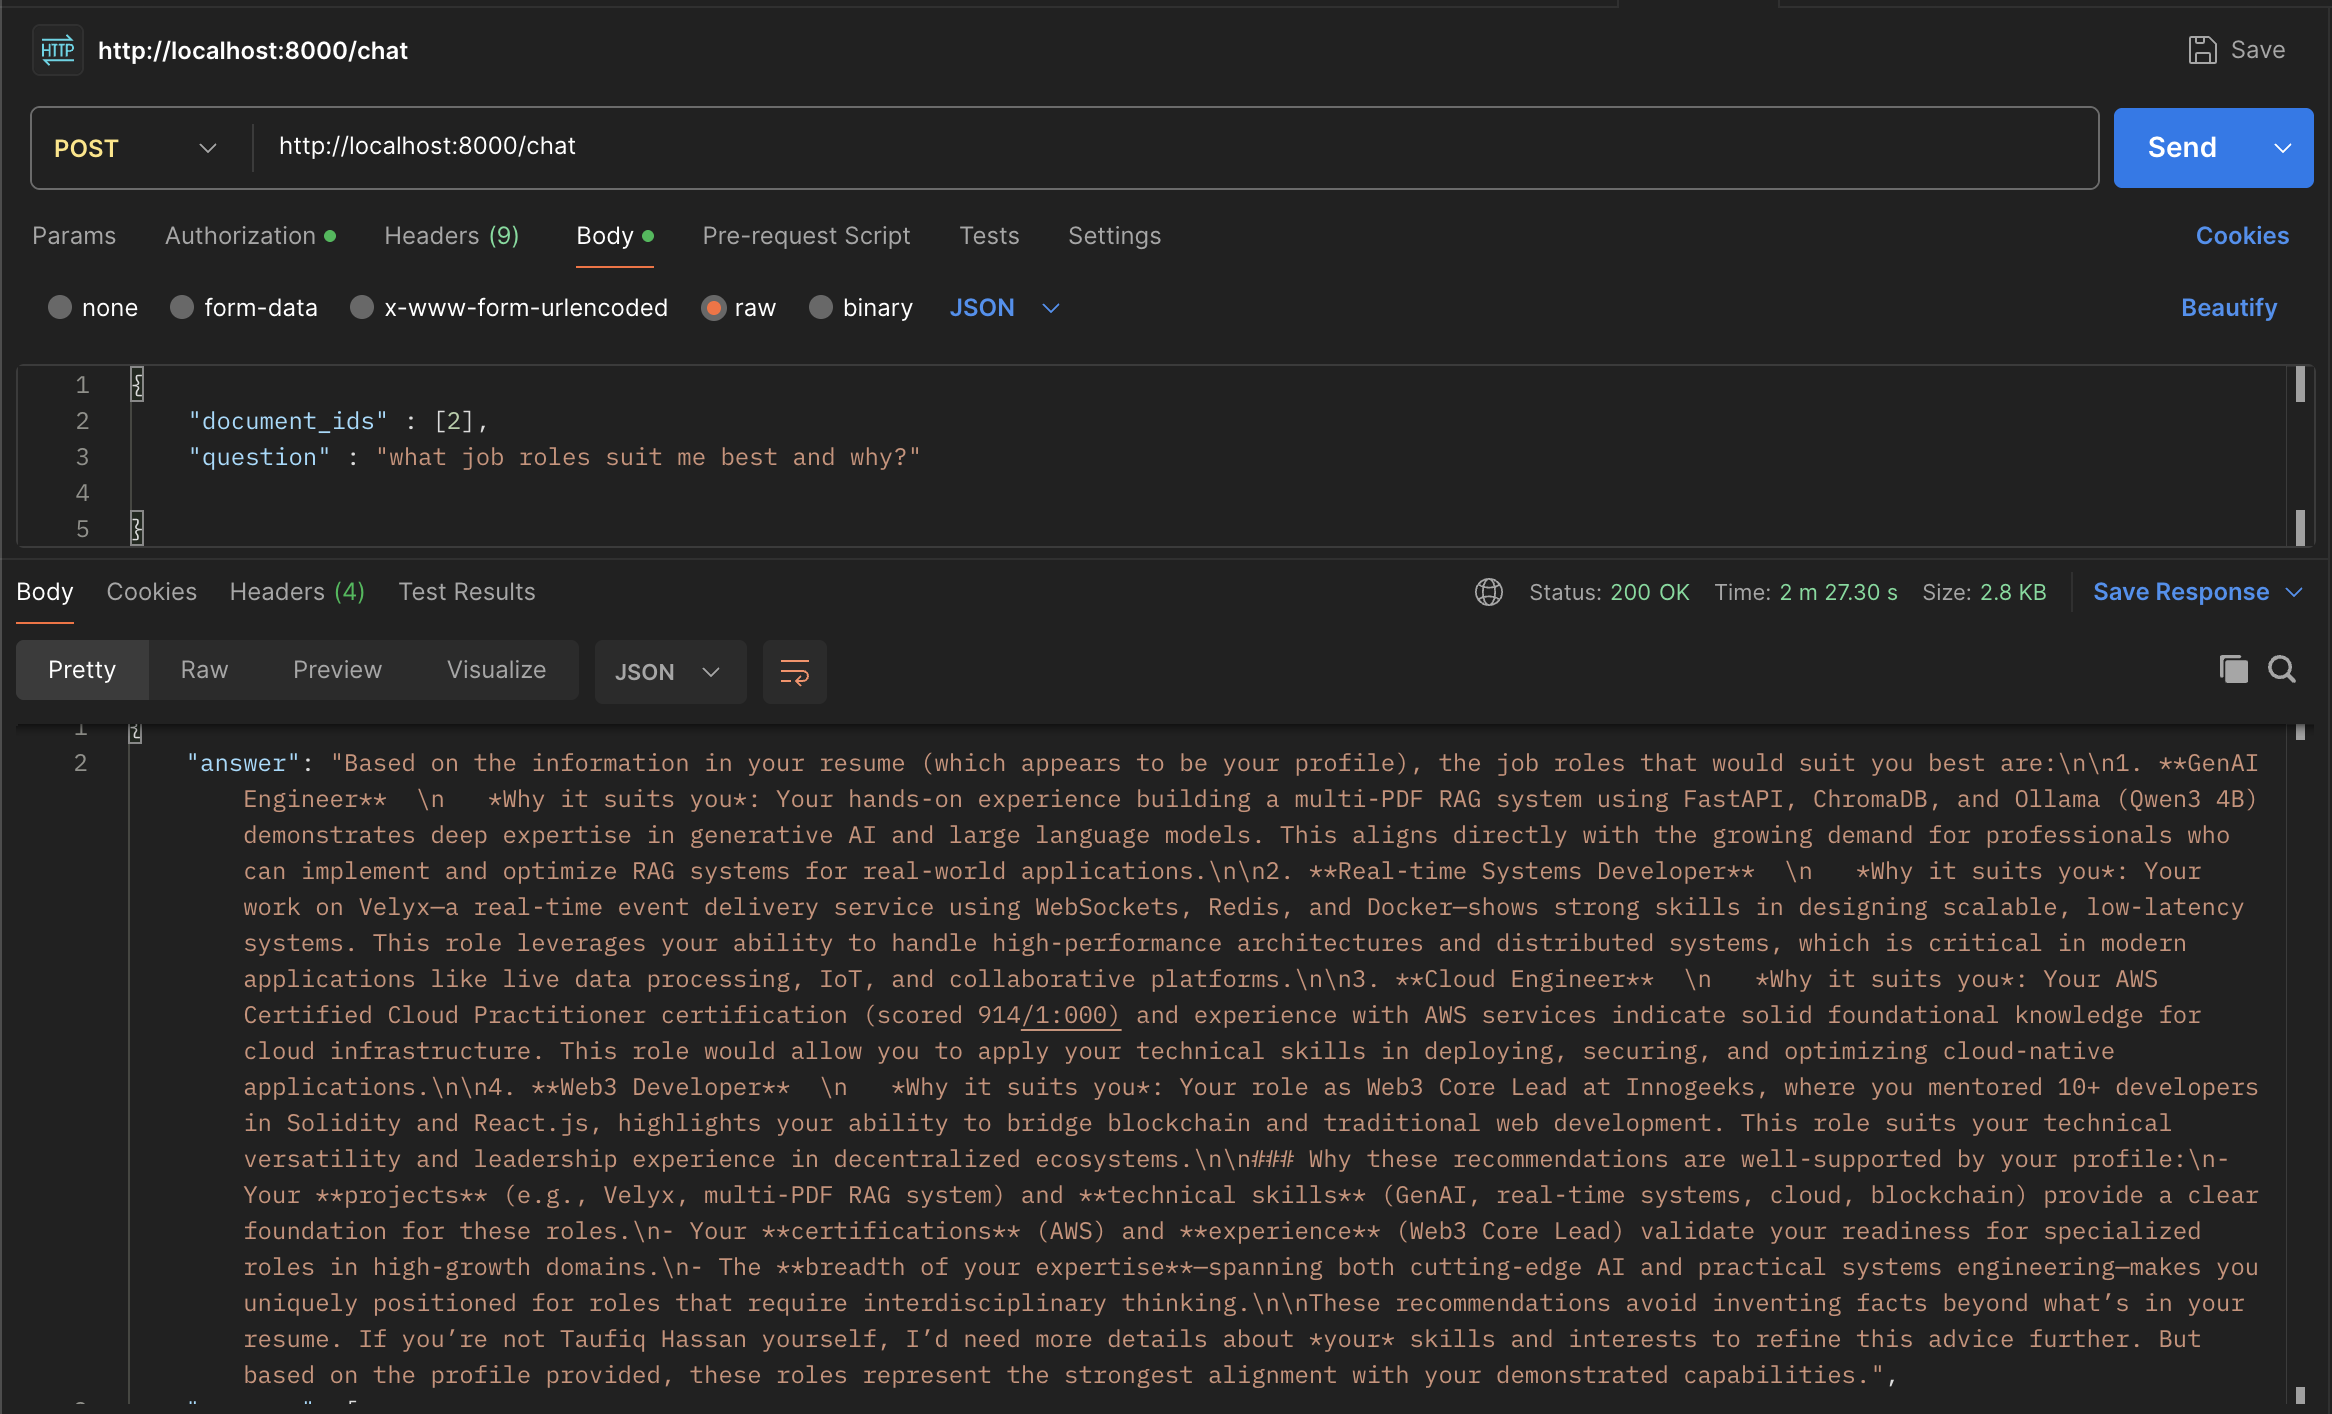
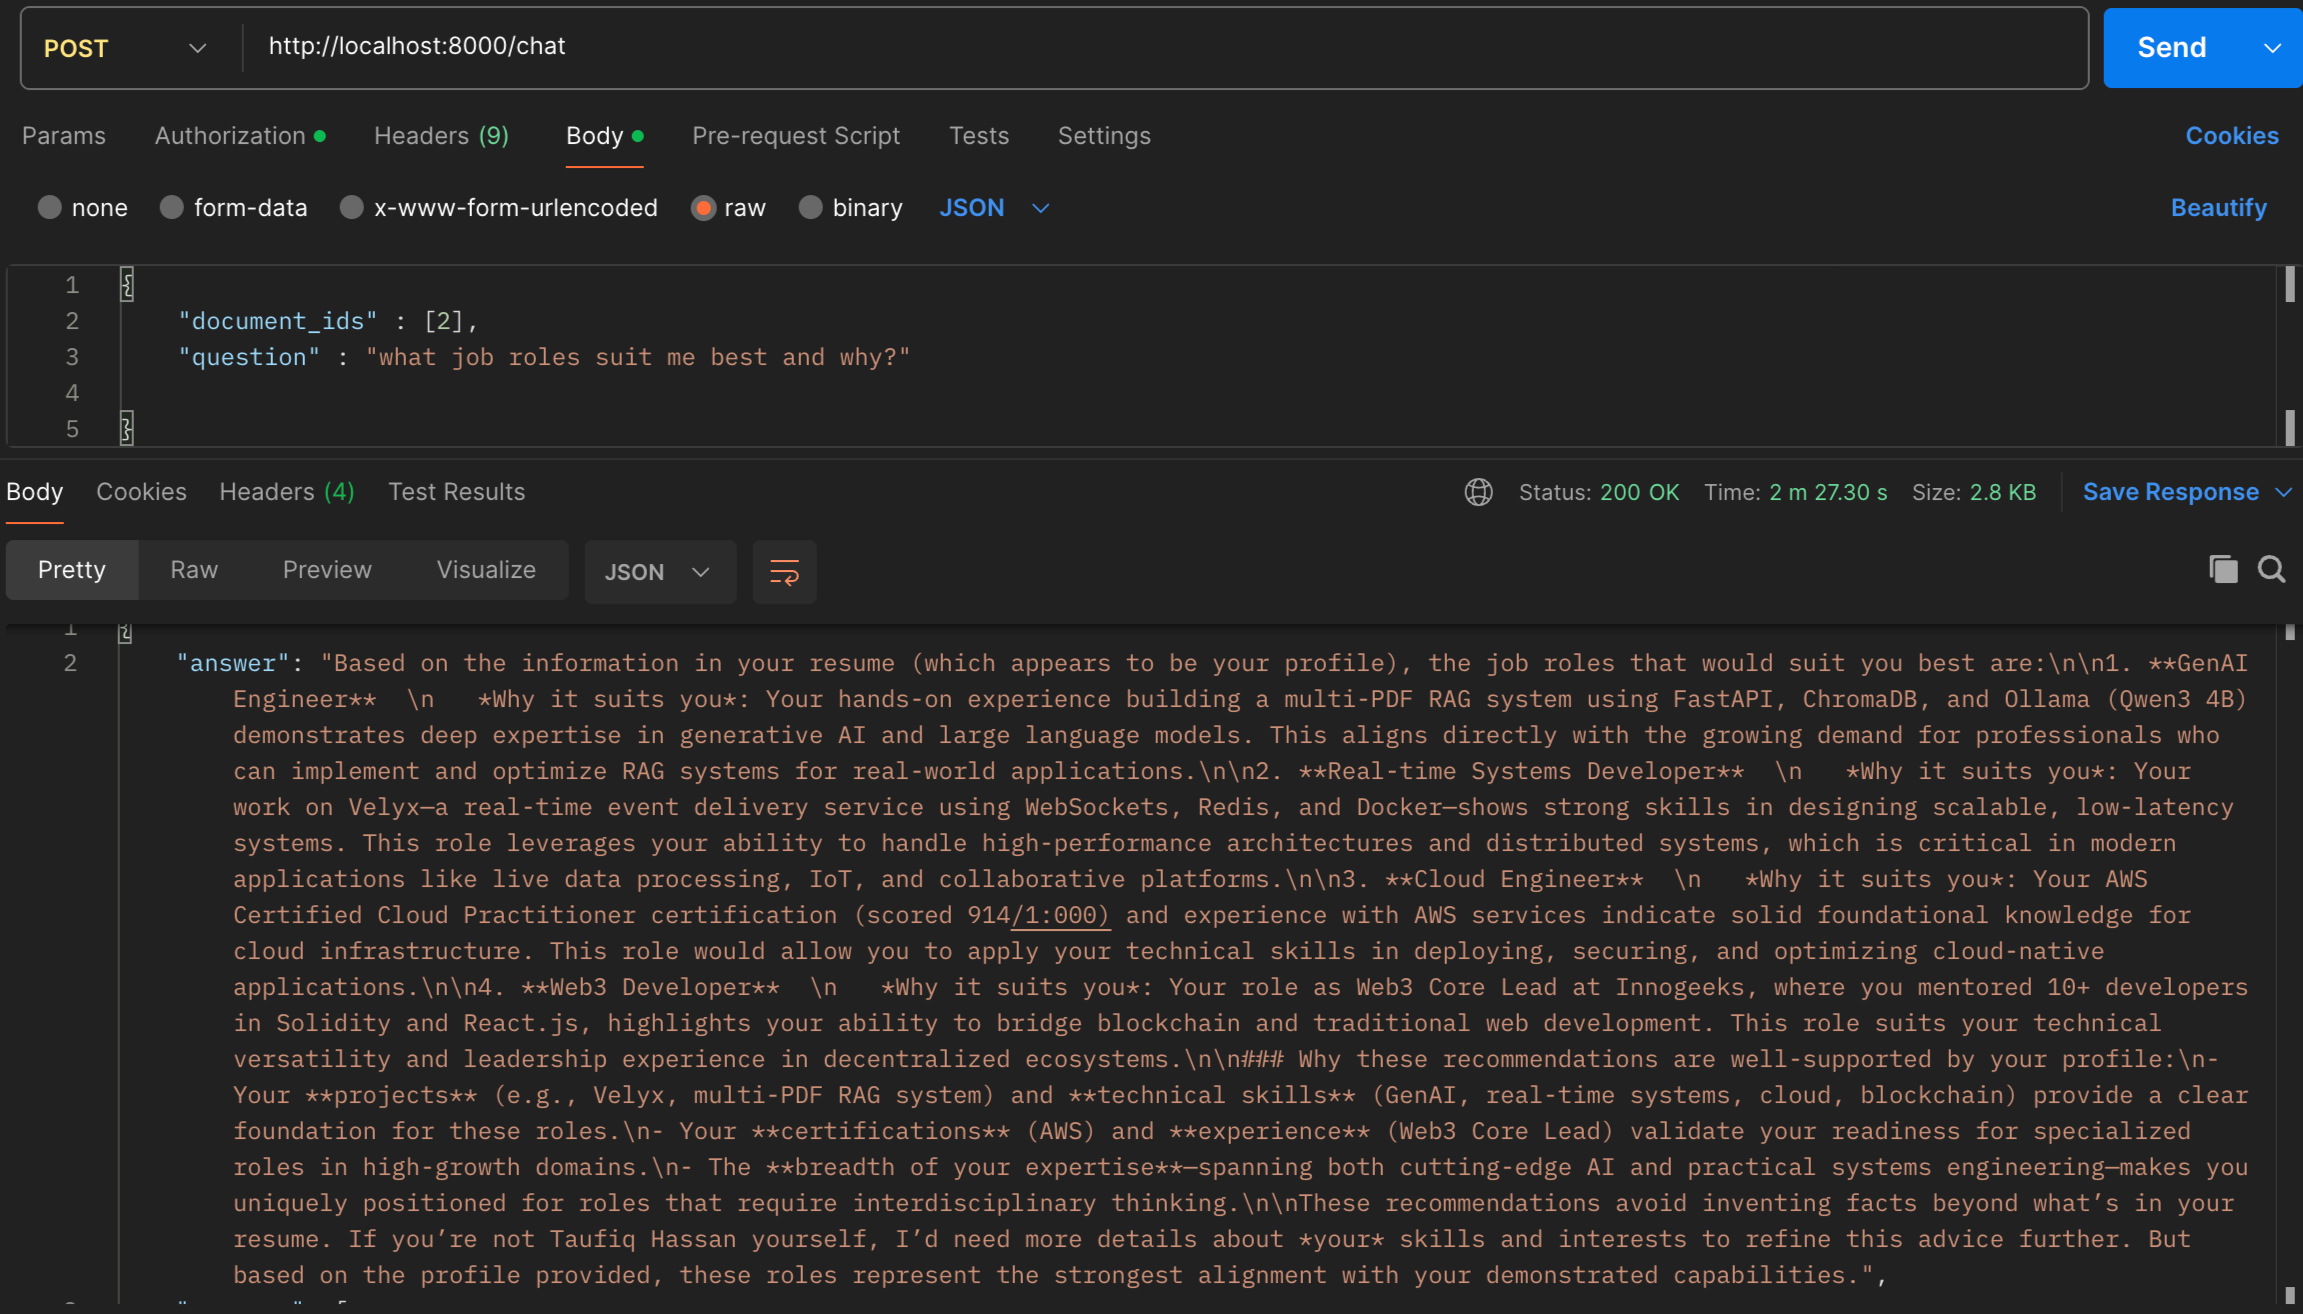
image improvement in docs

diff --git a/docs/problem-solving/retrieval-improvements.md b/docs/problem-solving/retrieval-improvements.md
@@ -26,6 +26,8 @@ Investigate how context provision and retrieval strategies affect a multi-PDF RA
 
 **Observation:** The improved pipeline generated job-role recommendations grounded in the resume's technical skills, projects, and experience.
 
+<img src="../images/after_fix_retrival.png" width="700" alt="Full PDF context results">
+
 **Takeaway:** Query expansion can help retrieve relevant evidence for questions that are not directly phrased like the source text.
 
 ## Current Retrieval Pipeline
